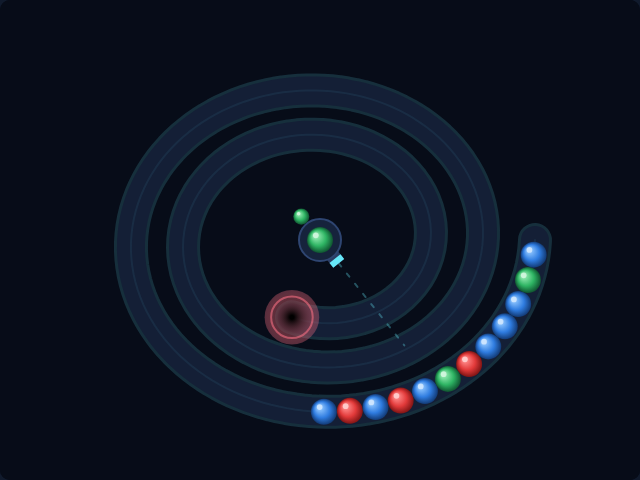
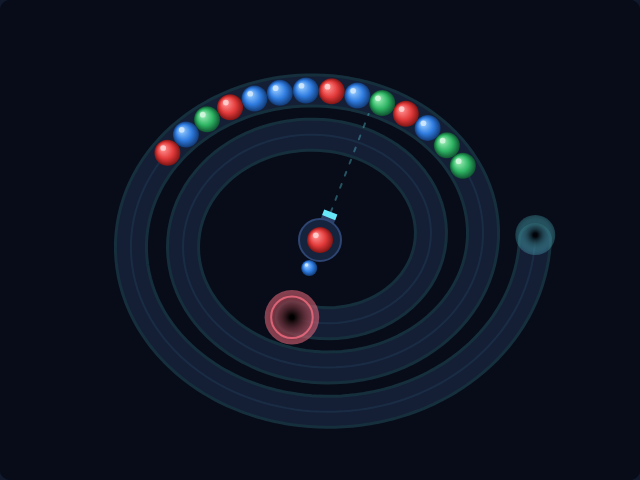
Hide backed-up Marble Loop chain in a feed tunnel and polish visuals
A scripted-bot soak run showed the chain can be pushed behind the start of
the track by repeated insertions; those marbles were being drawn stacked on
the entrance and were still shootable. They now count as inside the feed
tunnel: excluded from rendering and hitTest, and rolling out of a drawn
tunnel mouth as the chain advances.

Also: brighter track groove, a pit that glows as the head closes in, a dashed
aim guide, the queued marble parked behind the barrel, and a capped particle
pool so sparks cannot accumulate while the tab is not painting.

Claude-Session: https://claude.ai/code/session_017TxduniMCvu9riHD6FmWrC

Changed region(s): [[0.2188, 0.1562, 0.75, 0.375], [0.4688, 0.4375, 0.875, 0.9062], [0.4062, 0.4375, 0.5312, 0.7188]]

diff --git a/MarbleLoop/game.js b/MarbleLoop/game.js
@@ -237,10 +237,17 @@ function resolveMatches(index) {
     return count;
 }
 
+// Marbles at a negative distance are still inside the feed tunnel behind the
+// start of the track: they are neither drawn nor shootable until they emerge.
+function inTunnel(m) {
+    return m.t < 0;
+}
+
 function hitTest(x, y) {
     let best = -1;
     let bestD = MARBLE_R * 2;
     for (let i = 0; i < chain.length; i++) {
+        if (inTunnel(chain[i])) continue;
         const p = pointAt(chain[i].t);
         const d = Math.hypot(p.x - x, p.y - y);
         if (d < bestD) { bestD = d; best = i; }
@@ -468,12 +475,17 @@ function hideOverlay() {
 // Particles (purely cosmetic)
 // ---------------------------------------------------------------------------
 
+const MAX_PARTICLES = 140;
+
 function burst(p, color) {
     for (let i = 0; i < 7; i++) {
         const a = Math.random() * Math.PI * 2;
-        const sp = 40 + Math.random() * 140;
+        const sp = 30 + Math.random() * 110;
         particles.push({ x: p.x, y: p.y, vx: Math.cos(a) * sp, vy: Math.sin(a) * sp, life: 0.45, color });
     }
+    // A tab that is not painting still runs the simulation through step(), so
+    // cap the pool rather than letting stale sparks accumulate.
+    if (particles.length > MAX_PARTICLES) particles.splice(0, particles.length - MAX_PARTICLES);
 }
 
 function updateParticles(dt) {
@@ -525,6 +537,18 @@ function drawTrack() {
     ctx.strokeStyle = 'rgba(103,232,249,0.07)';
     ctx.lineWidth = 2;
     ctx.stroke();
+
+    // The feed tunnel the marbles roll out of.
+    const start = pointAt(0);
+    const dir = tangentAt(0);
+    const mx = start.x - dir.x * 5, my = start.y - dir.y * 5;
+    const mouth = ctx.createRadialGradient(mx, my, 2, mx, my, MARBLE_R + 7);
+    mouth.addColorStop(0, '#02040a');
+    mouth.addColorStop(1, 'rgba(103,232,249,0.22)');
+    ctx.fillStyle = mouth;
+    ctx.beginPath();
+    ctx.arc(mx, my, MARBLE_R + 7, 0, Math.PI * 2);
+    ctx.fill();
 
     // The pit at the end of the line — it glows redder as the head closes in.
     const end = pointAt(path.length);
@@ -590,6 +614,7 @@ function draw() {
     drawTrack();
 
     for (const m of chain) {
+        if (inTunnel(m)) continue;
         const p = pointAt(m.t);
         drawMarble(p.x, p.y, m.color, MARBLE_R);
     }
@@ -597,9 +622,12 @@ function draw() {
     for (const s of projectiles) drawMarble(s.x, s.y, s.color, MARBLE_R);
 
     for (const p of particles) {
-        ctx.globalAlpha = Math.max(0, p.life / 0.45);
+        const t = Math.max(0, p.life / 0.45);
+        ctx.globalAlpha = t;
         ctx.fillStyle = (MARBLE_SKIN[p.color] || MARBLE_SKIN.blue)[0];
-        ctx.fillRect(p.x - 2, p.y - 2, 4, 4);
+        ctx.beginPath();
+        ctx.arc(p.x, p.y, 1 + 2.5 * t, 0, Math.PI * 2);
+        ctx.fill();
     }
     ctx.globalAlpha = 1;
 

diff --git a/MarbleLoop/tests/marble-loop.spec.js b/MarbleLoop/tests/marble-loop.spec.js
@@ -440,6 +440,37 @@ test.describe('Marble Loop', () => {
             expect(s.last).toBe('green');
         });
 
+        test('marbles pushed behind the start wait in the tunnel', async ({ page }) => {
+            const s = await page.evaluate(() => {
+                startGame();
+                pending = 0;
+                chain.length = 0;
+                chain.push({ t: SPACING, color: 'red' });
+                chain.push({ t: 0, color: 'blue' });
+                insertAt(1, 'green');
+                return {
+                    tail: chain[chain.length - 1].t,
+                    tunnelled: chain.filter(inTunnel).length,
+                    ordered: chain.every((m, i) => i === 0 || chain[i - 1].t - m.t >= SPACING - 0.01),
+                };
+            });
+            expect(s.tail).toBeLessThan(0);
+            expect(s.tunnelled).toBe(1);
+            expect(s.ordered).toBe(true);
+        });
+
+        test('marbles still in the tunnel cannot be shot', async ({ page }) => {
+            const s = await page.evaluate(() => {
+                startGame();
+                pending = 0;
+                chain.length = 0;
+                chain.push({ t: -SPACING, color: 'red' });
+                const p = pointAt(0);
+                return { hit: hitTest(p.x, p.y) };
+            });
+            expect(s.hit).toBe(-1);
+        });
+
         test('a fired marble that reaches the chain is inserted into it', async ({ page }) => {
             const s = await page.evaluate(() => {
                 startGame();

diff --git a/MarbleLoop/DESIGN.md b/MarbleLoop/DESIGN.md
@@ -68,10 +68,25 @@ for i in 1..n-1:
     else:                    chain[i].t += catchupSpeed * dt, clamped to target
 ```
 
-A marble whose gap closed exactly this frame reports its index, and
-`resolveMatches()` runs at that junction — that is how a removal cascades into a
-combo. New marbles enter at `t = 0` whenever `pending > 0` and the tail has
-rolled far enough forward to leave room.
+A marble only counts as *detached* once it trails by more than `GAP_EPS` (1 px).
+This matters: the head's own advance opens a sub-pixel gap behind every marble on
+every frame, so without the threshold the whole chain would be re-tested for
+matches continuously and any run of three would pop the instant it formed,
+without ever being shot at. Only a genuine gap — left by a pop, or by a marble
+entering at the tail — arms a junction, and the frame it closes is the frame its
+match is tested.
+
+New marbles enter at `t = 0` whenever `pending > 0` and the tail has rolled far
+enough forward to leave room.
+
+### The tunnel
+
+Insertion pushes the marbles behind it back, so a busy chain can be shoved past
+the start of the track into negative `t`. Those marbles are treated as still
+inside the feed tunnel: `inTunnel()` excludes them from both rendering and
+`hitTest()`, so they are neither drawn stacked on the entrance nor shootable, and
+they roll out of the tunnel mouth as the chain advances. A backed-up tunnel is
+the visible cost of bad shots.
 
 ### Shooting and insertion
 
@@ -139,3 +154,15 @@ recorded here rather than escalated.
    rather than hand-authored per level.
 8. **Fixed 640×480 canvas**, CSS-scaled for narrow viewports — consistent with
    the other games in the repo, which all use a fixed backing store.
+9. **The tunnel is unbounded.** Nothing caps how far the chain can be pushed
+   behind the start of the track; a player who keeps missing simply builds a
+   longer backlog rather than hitting a wall.
+
+## Verification
+
+Beyond the 66 Playwright specs, the game was soak-tested with a scripted bot
+(aim at a visible marble matching the loaded colour, swap if none, fire) driving
+`step()` at 60 Hz for six simulated minutes. It cleared levels 1–3 and lost on
+level 4 at 4170 points, with no uncaught errors and no frame in which the
+non-overlap invariant was violated — confirming both that a level is actually
+clearable and that the difficulty curve eventually bites.

diff --git a/README.md b/README.md
@@ -109,7 +109,7 @@ For each new game, put it in a new folder. Each game should have its own README.
 | TriPeaks Solitaire | [TriPeaks/](TriPeaks/) | Complete |
 | Kakuro | [Kakuro/](Kakuro/) | Complete |
 | Kaboom! | [Kaboom/](Kaboom/) | Complete |
-| Marble Loop | [MarbleLoop/](MarbleLoop/) | In Progress |
+| Marble Loop | [MarbleLoop/](MarbleLoop/) | Complete |
 
 ## Playing
 
